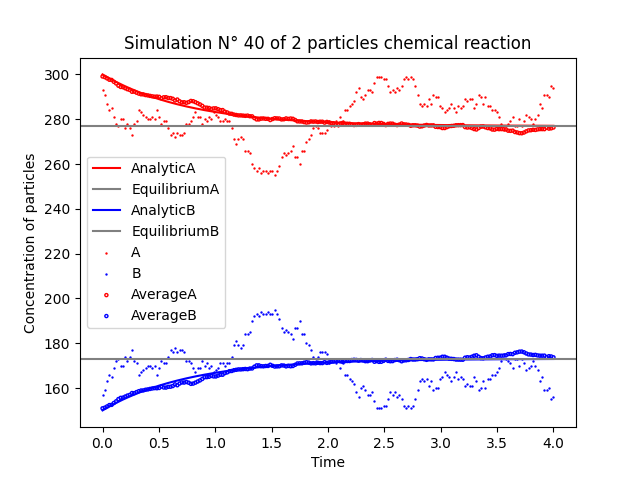
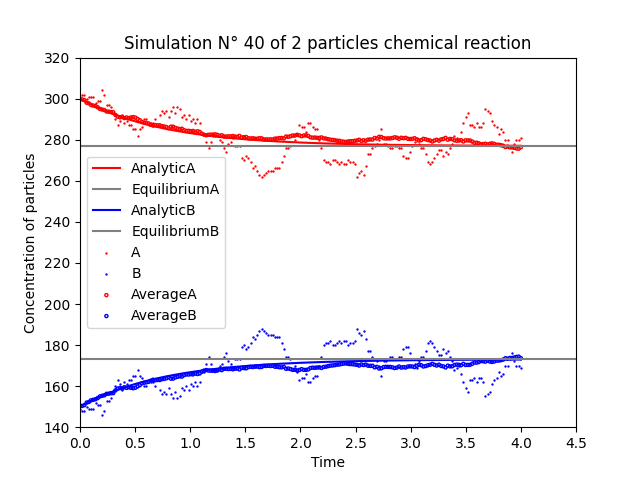
New run

diff --git a/simulation.py b/simulation.py
@@ -67,6 +67,8 @@ if __name__ == "__main__":
 	plt.title(f"Simulation N° 1 of 2 particles chemical reaction")
 	plt.xlabel("Time")
 	plt.ylabel("Concentration of particles")
+	plt.xlim([0,4.5])
+	plt.ylim([140,320])
 	plt.legend(loc='center left')
 	plt.show(block=False)
 	plt.pause(1)
@@ -90,13 +92,14 @@ if __name__ == "__main__":
 		plt.scatter(x, average_Aconcentration, label='AverageA', facecolors='none', edgecolors='r', s=5)
 		plt.scatter(x, average_Bconcentration, label='AverageB', facecolors='none', edgecolors='b', s=5)
 		plt.title(f"Simulation N° {i} of 2 particles chemical reaction")
+		plt.xlim([0,4.5])
+		plt.ylim([140,320])
 		plt.xlabel("Time")
 		plt.ylabel("Concentration of particles")
 		plt.legend(loc='center left')
 		plt.show(block=False)
 		plt.pause(1)
-		if i%5==0:
-			plt.savefig(f"output/Simulation{i}.png")
+		plt.savefig(f"output/Simulation{i}.png")
 		plt.close()
 
 	plt.plot(x, [analyticalSolutionA(A0,B0,k1,k2,t) for t in x], label='AnalyticA', color='r')
@@ -106,6 +109,8 @@ if __name__ == "__main__":
 	plt.scatter(x, average_Aconcentration, c='r', marker='.', label='AverageA', facecolors='none', edgecolors='r', s=5)
 	plt.scatter(x, average_Bconcentration, c='b', marker='.', label='AverageB', facecolors='none', edgecolors='b', s=5)
 	plt.title(f"Simulation of 2 particles chemical reaction on average over {number_of_simulations} simulations")
+	plt.xlim([0,4.5])
+	plt.ylim([140,320])
 	plt.xlabel("Time")
 	plt.ylabel("Concentration of particles")
 	plt.legend(loc='center left')
